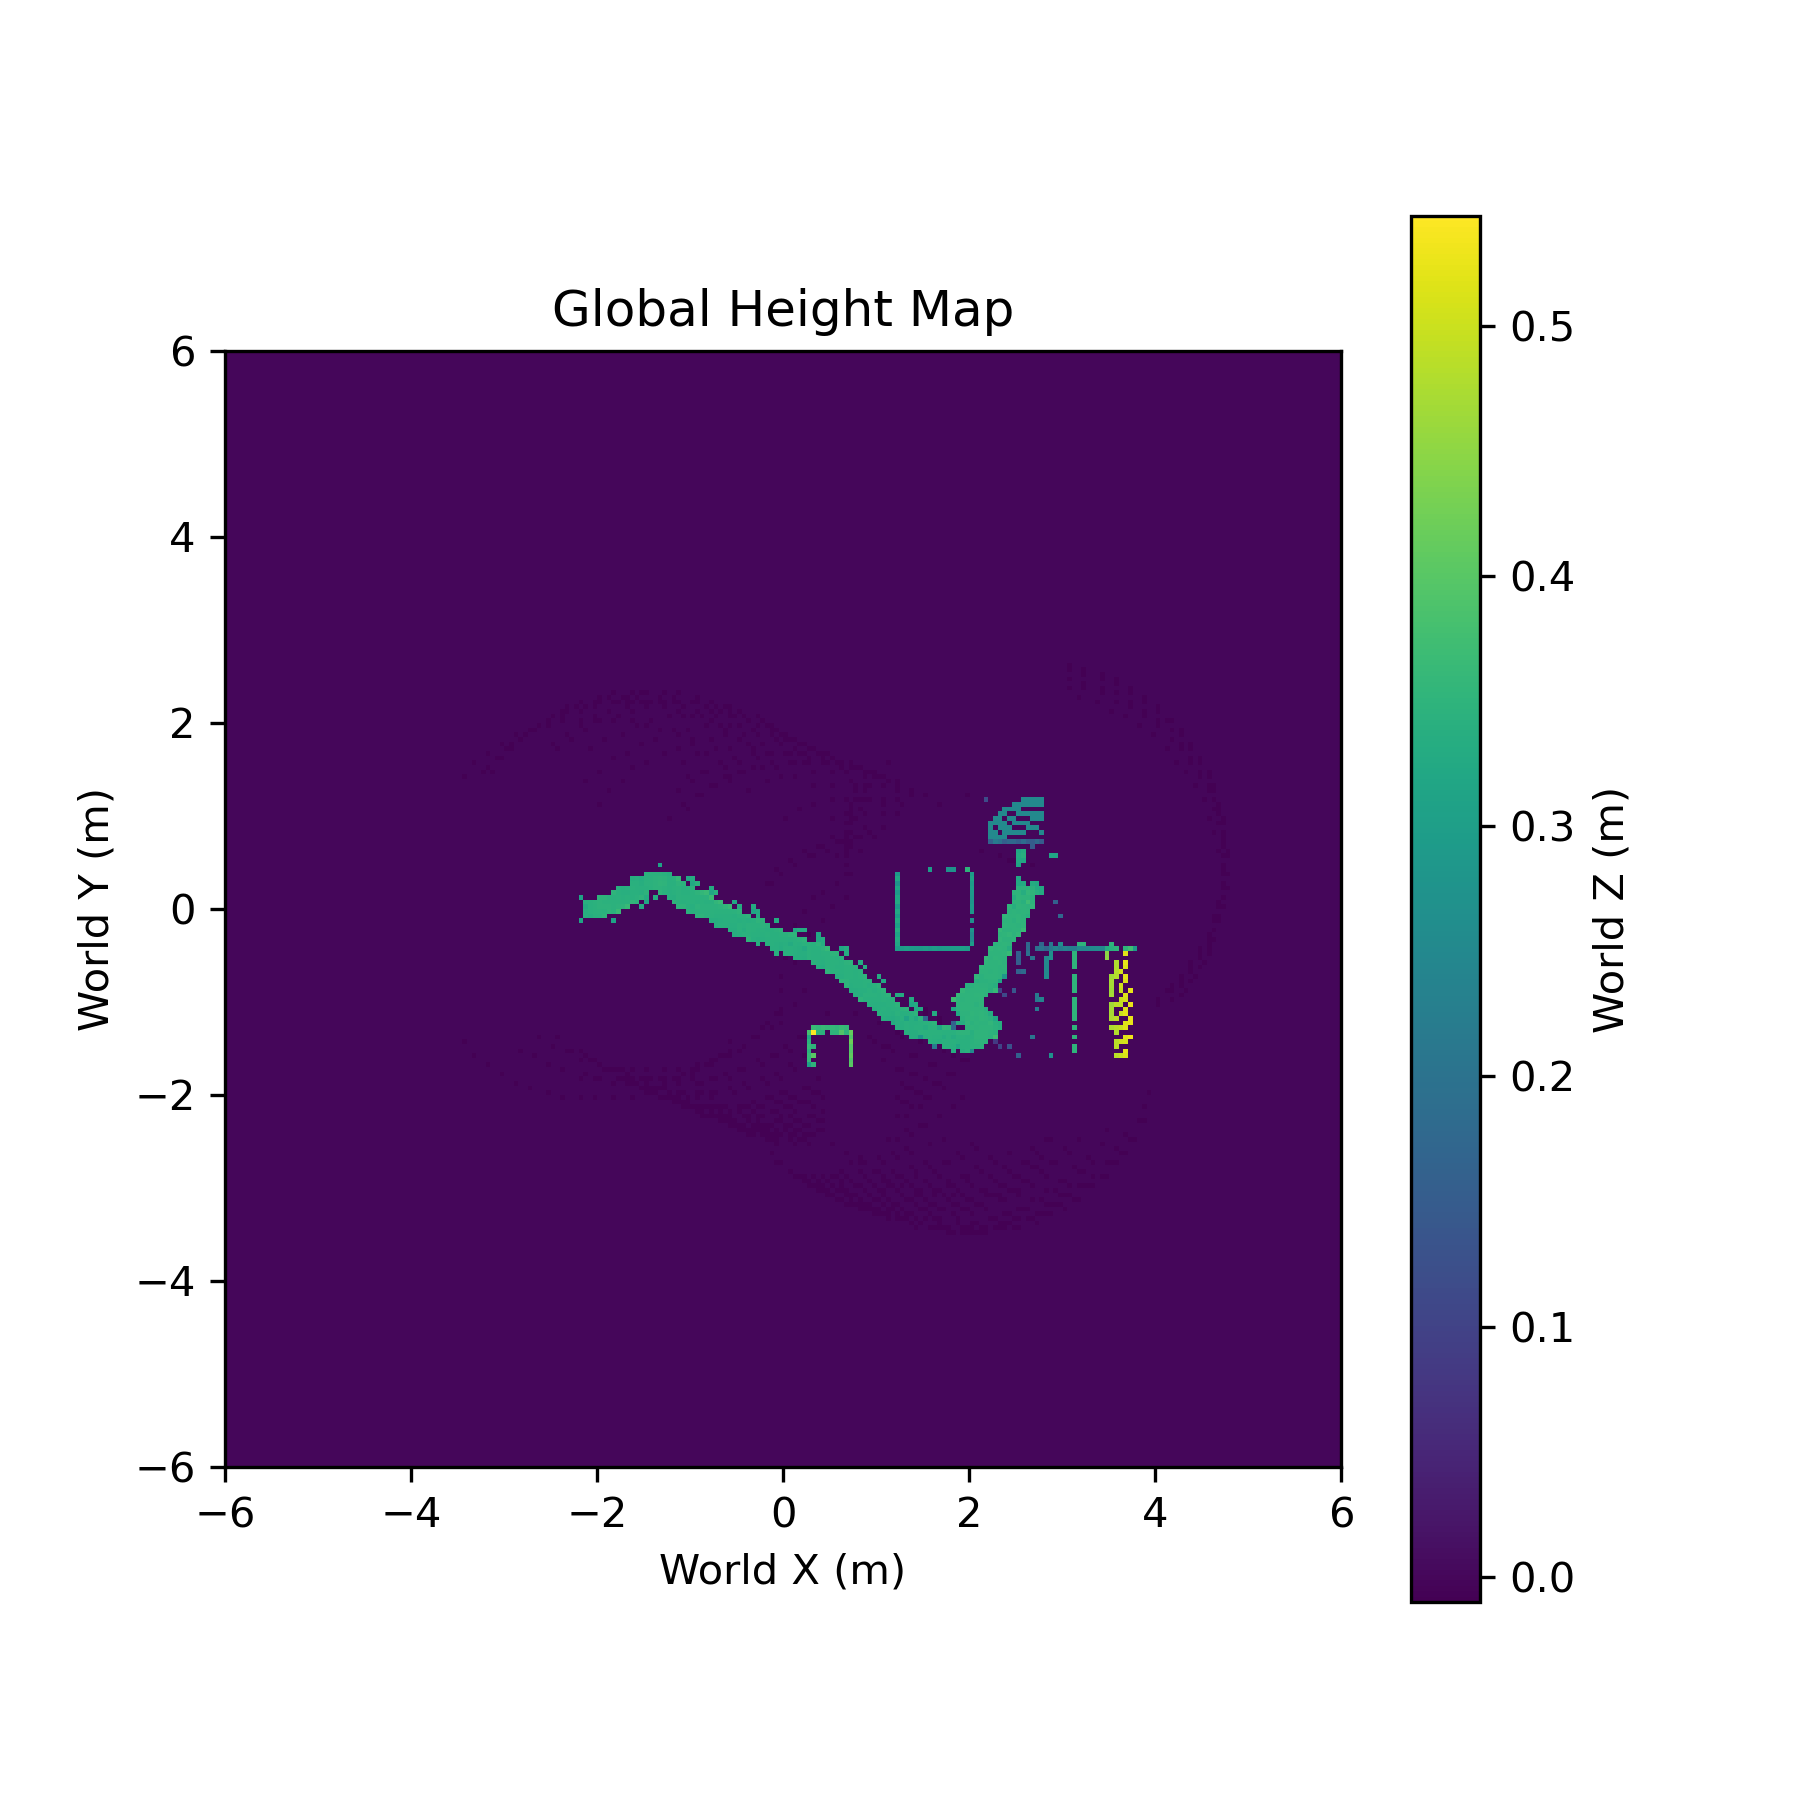
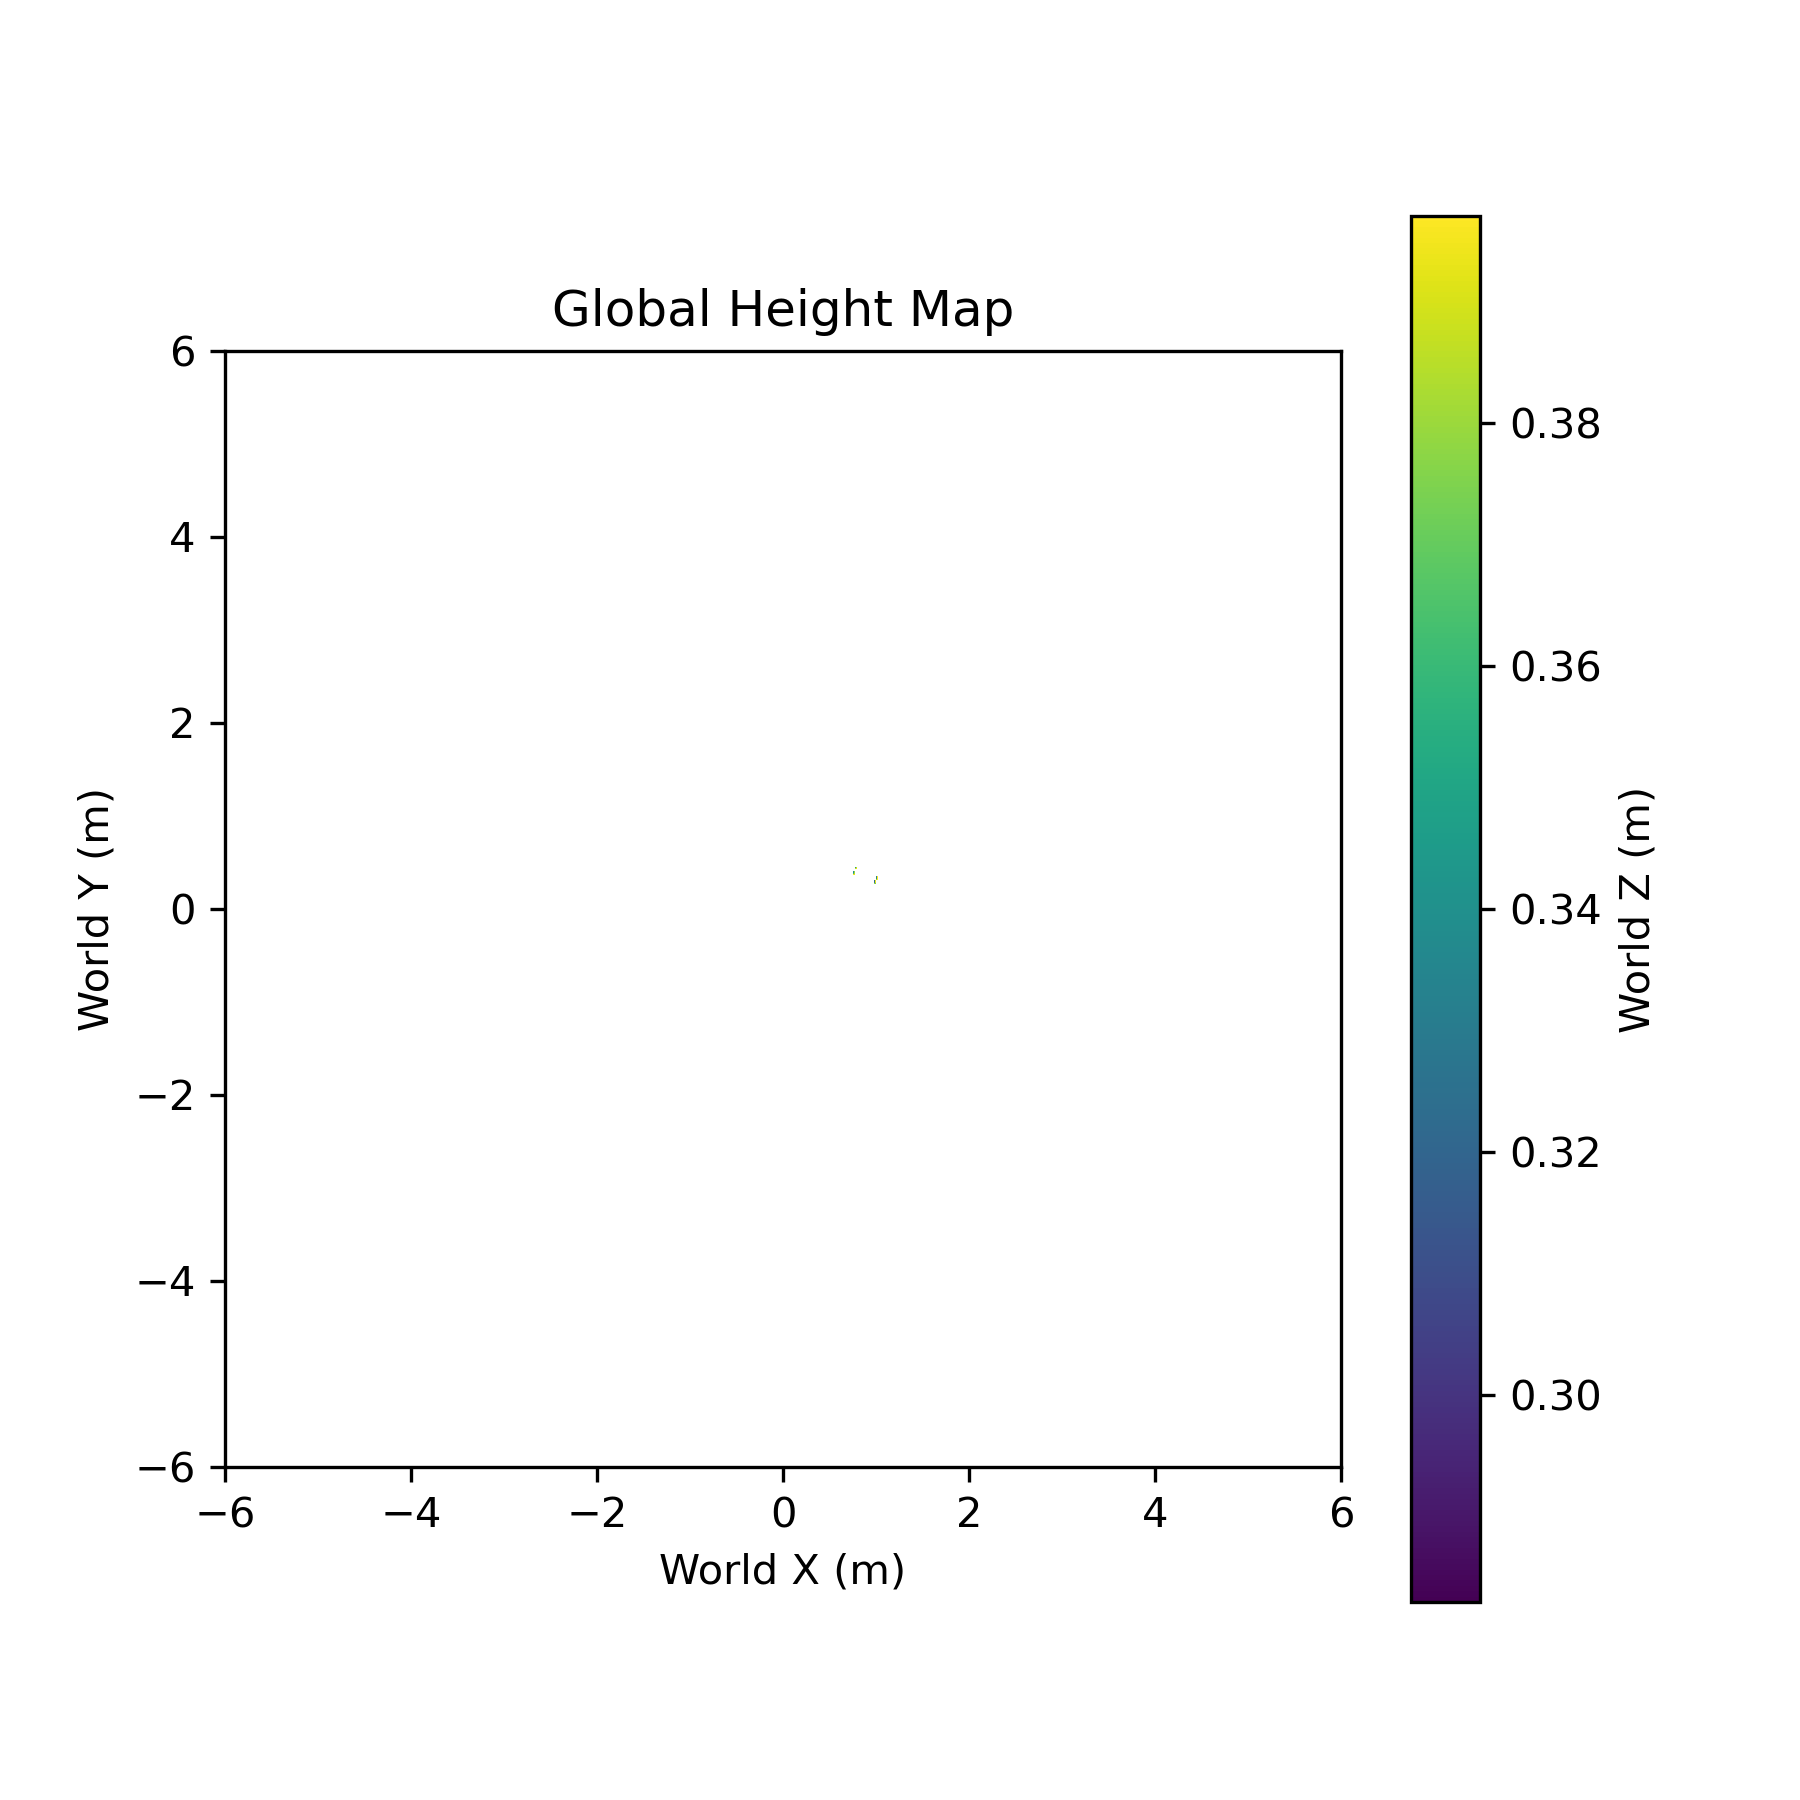
Added real-time height map and uneven terrain

diff --git a/examples/ex02_trot_forward.py b/examples/ex02_trot_forward.py
@@ -105,20 +105,23 @@ LEG_SLICE = {
 # --------------------------------------------------------------------------------
 @dataclass
 class GlobalHeightMap:
-    size_xy: float = 10.0      # total map width (meters)
-    res: float = 0.05          # 5 cm resolution
+    size_xy: float = 10.0
+    res: float = 0.05
 
     def __post_init__(self):
         self.N = int(self.size_xy / self.res)
-        self.hmap = np.zeros((self.N, self.N), dtype=np.float32)
-        self.count = np.zeros((self.N, self.N), dtype=np.int32)
+        self.hmap = np.full((self.N, self.N), np.nan, dtype=np.float32)
 
         self.origin_xy = np.array([
             -self.size_xy / 2.0,
             -self.size_xy / 2.0
-        ])  # map centered at world (0,0)
+        ])
 
     def update(self, hits_world):
+
+        # clear MAP EVERY FRAME
+        self.hmap[:] = 0.0
+
         if hits_world.shape[0] == 0:
             return
 
@@ -139,9 +142,7 @@ class GlobalHeightMap:
         z = z[valid]
 
         for i, j, zz in zip(ix, iy, z):
-            self.count[j, i] += 1
-            c = self.count[j, i]
-            self.hmap[j, i] += (zz - self.hmap[j, i]) / c  # running mean
+            self.hmap[j, i] = zz
 
 def get_body_cmd(t: float):
     for phase in CMD_SCHEDULE:
@@ -483,7 +484,7 @@ def debug_plot_heightmap(hmap, res, origin):
         origin[1],
         origin[1] + hmap.shape[0]*res
     ]
-    plt.imshow(hmap, origin="lower", extent=extent)
+    plt.imshow(heightmap.hmap, origin="lower", extent=extent, vmin=0, vmax=0.5)
     plt.colorbar(label="World Z (m)")
     plt.pause(0.001)
 
